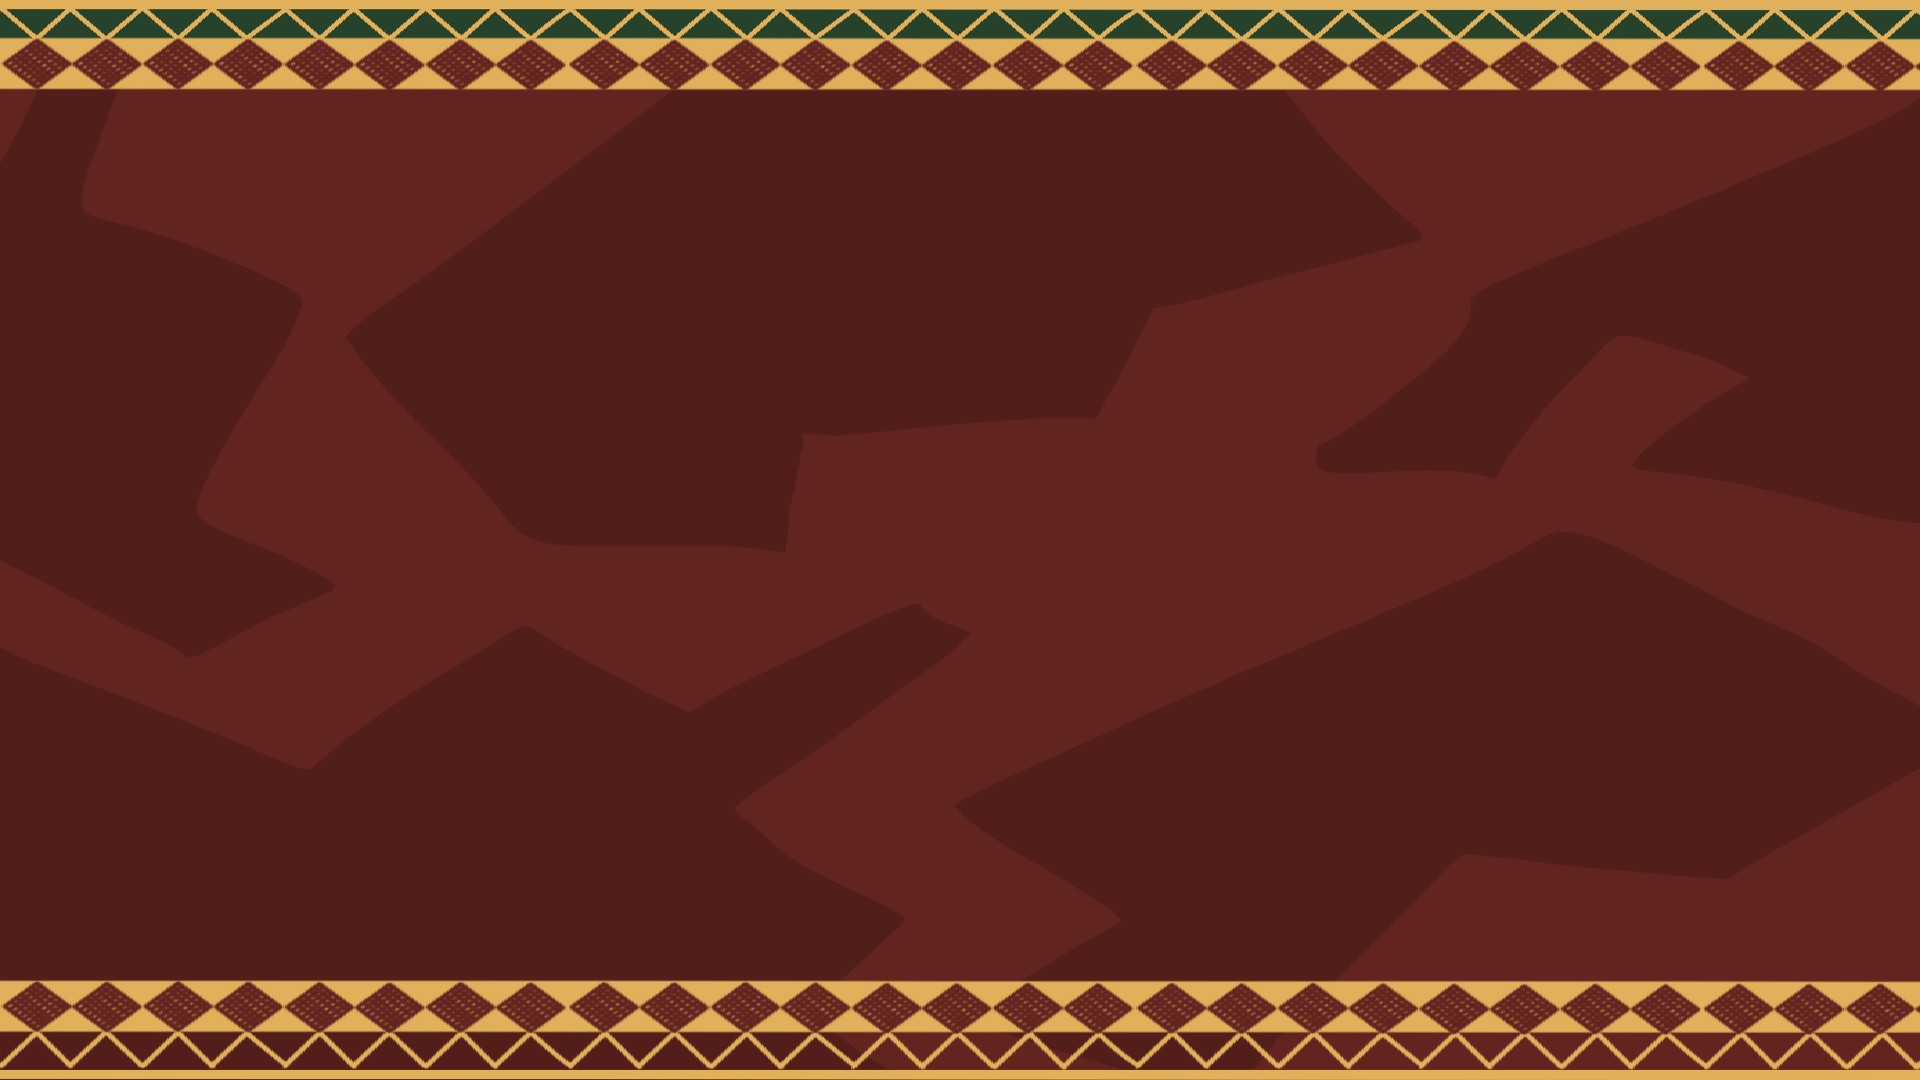
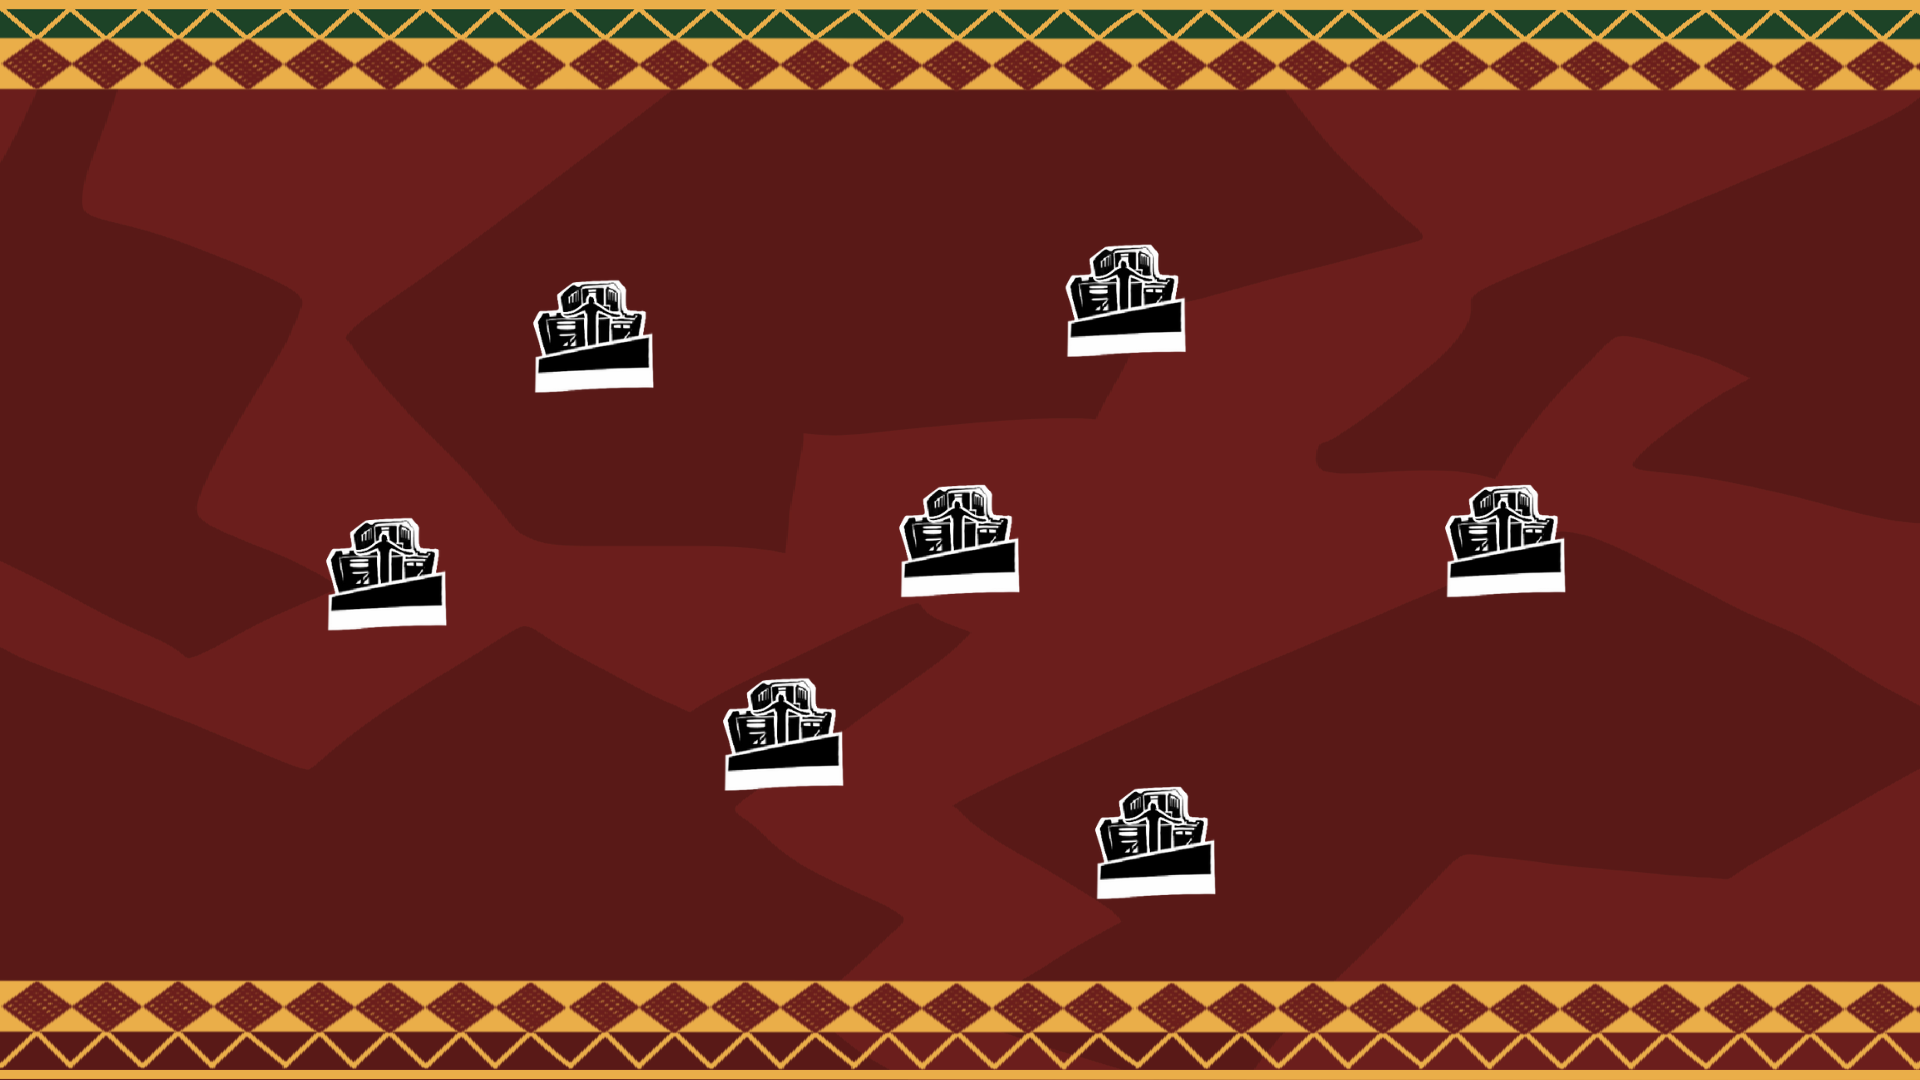
Added menu opening on button input
Added menu opening on button input, made it disable mouse dragging if it is over the menu, fixed layering issues with the menu. Added a simple transition for the opening of the menu, and added fonts to be used for the UI.

diff --git a/RoamMateGUI/pannableWidget.cpp b/RoamMateGUI/pannableWidget.cpp
@@ -4,24 +4,31 @@
 #include <QScreen>
 #include <QGuiApplication>
 #include <QDebug>
-#include <QMessageBox>
+#include <QPainterPath>
+#include <QPropertyAnimation>
 
 PannableWidget::PannableWidget(const QString &imagePath, QWidget *parent)
-    : QWidget(parent), background(imagePath) {
+    : QWidget(parent), background(imagePath), showMenu(false), m_menuOpacity(0.0) {
     QScreen *screen = QGuiApplication::primaryScreen();
     QRect screenGeometry = screen->geometry();
-    offset = QPoint((screenGeometry.width() / 4) * -1, (screenGeometry.height() / 4) * -1);
+    offset = QPoint(((background.width() - screenGeometry.width()) / 2) * -1, (screenGeometry.height() / 4) * -1);
     setMinimumSize(background.size());
     setAttribute(Qt::WA_TranslucentBackground); // Make widget background transparent
 
     // Add multiple buttons
-    addButton(":res/assets/UpIcon.PNG", QPoint(960, 540));
-    addButton(":res/assets/UpIcon.PNG", QPoint(582, 421));
-    addButton(":res/assets/UpIcon.PNG", QPoint(439, 659));
-    addButton(":res/assets/UpIcon.PNG", QPoint(1442, 521));
-    addButton(":res/assets/UpIcon.PNG", QPoint(723, 782));
-    addButton(":res/assets/UpIcon.PNG", QPoint(1174, 721));
-    addButton(":res/assets/UpIcon.PNG", QPoint(1332, 321));
+    addButton(":res/assets/UpIcon.PNG", QPoint(893, 473));
+    addButton(":res/assets/UpIcon.PNG", QPoint(527, 269));
+    addButton(":res/assets/UpIcon.PNG", QPoint(320, 507));
+    addButton(":res/assets/UpIcon.PNG", QPoint(1442, 474));
+    addButton(":res/assets/UpIcon.PNG", QPoint(717, 667));
+    addButton(":res/assets/UpIcon.PNG", QPoint(1089, 776));
+    addButton(":res/assets/UpIcon.PNG", QPoint(1060, 233));
+
+    // Initialize the animation
+    animation = new QPropertyAnimation(this, "menuOpacity");
+    animation->setDuration(500); // Duration in milliseconds
+    animation->setStartValue(0.0);
+    animation->setEndValue(1.0);
 }
 
 void PannableWidget::addButton(const QString &iconPath, const QPoint &position) {
@@ -39,6 +46,12 @@ void PannableWidget::addButton(const QString &iconPath, const QPoint &position) 
     buttons.append(buttonInfo);
 }
 
+void PannableWidget::setButtonsVisible(bool visible) {
+    for (const ButtonInfo &buttonInfo : buttons) {
+        buttonInfo.button->setVisible(visible);
+    }
+}
+
 void PannableWidget::paintEvent(QPaintEvent *event) {
     Q_UNUSED(event); // Suppress unused parameter warning
     QPainter painter(this);
@@ -51,35 +64,91 @@ void PannableWidget::paintEvent(QPaintEvent *event) {
     for (const ButtonInfo &buttonInfo : buttons) {
         buttonInfo.button->move(offset + buttonInfo.position);
     }
+
+    // Draw the new menu if the flag is set
+    if (showMenu) {
+        painter.setOpacity(m_menuOpacity);
+        drawMenu(painter); // Example usage with position (50, 50) and red color
+    }
 }
 
 void PannableWidget::mousePressEvent(QMouseEvent *event) {
     if (event->button() == Qt::LeftButton) {
-        lastMousePos = event->pos();
+        if (!showMenu || !menuRect.contains(event->pos())) {
+            lastMousePos = event->pos();
+        }
     }
 }
 
 void PannableWidget::mouseMoveEvent(QMouseEvent *event) {
     if (event->buttons() & Qt::LeftButton) {
-        QPoint delta = event->pos() - lastMousePos;
-        QPoint newOffset = offset + delta;
+        if (!showMenu || !menuRect.contains(event->pos())) {
+            QPoint delta = event->pos() - lastMousePos;
+            QPoint newOffset = offset + delta;
 
-        // Constrain newOffset within the valid range
-        QScreen *screen = QGuiApplication::primaryScreen();
-        QRect screenGeometry = screen->geometry();
-        int maxX = std::min(0, screenGeometry.width() - background.width());
-        int maxY = std::min(0, screenGeometry.height() - background.height());
+            // Constrain newOffset within the valid range
+            QScreen *screen = QGuiApplication::primaryScreen();
+            QRect screenGeometry = screen->geometry();
+            int maxX = std::min(0, screenGeometry.width() - background.width());
+            int maxY = std::min(0, screenGeometry.height() - background.height());
 
-        newOffset.setX(std::min(0, std::max(maxX, newOffset.x())));
-        newOffset.setY(std::min(0, std::max(maxY, newOffset.y())));
+            newOffset.setX(std::min(0, std::max(maxX, newOffset.x())));
+            newOffset.setY(std::min(0, std::max(maxY, newOffset.y())));
 
-        offset = newOffset;
-        lastMousePos = event->pos();
-        update();
+            offset = newOffset;
+            lastMousePos = event->pos();
+            update();
+        }
     }
 }
 
 void PannableWidget::onButtonClicked() {
     qDebug() << "Button clicked!";
-    QMessageBox::information(this, "Button Clicked", "I have been clicked!");
+    showMenu = !showMenu;
+    setButtonsVisible(!showMenu); // Hide buttons when showing the menu
+    if (showMenu) {
+        animation->setDirection(QPropertyAnimation::Forward);
+    } else {
+        animation->setDirection(QPropertyAnimation::Backward);
+    }
+    animation->start();
+    update(); // Trigger a repaint to show the new menu
+}
+
+void PannableWidget::drawMenu(QPainter &painter) {
+    QScreen *screen = QGuiApplication::primaryScreen();
+    QRect screenGeometry = screen->geometry();
+    menuRect = QRect(screenGeometry.width() - 505, 0, screenGeometry.width() / 2.25, screenGeometry.height() * 1.2); // Example menu dimensions
+
+    // Rotate the painter -15 degrees around the center of the menu rectangle
+    painter.save();
+    QPoint center = menuRect.center();
+    painter.translate(center);
+    painter.rotate(-15);
+    painter.translate(-center);
+
+    // Draw the menu with a border
+    QPainterPath path;
+    path.addRect(menuRect);
+
+    QPen pen(Qt::white, 5); // Adjust the border color and width here
+    painter.setPen(pen);
+    painter.setBrush(QBrush(Qt::black));
+    painter.drawPath(path);
+
+    // Draw the text
+    painter.setFont(QFont("Persona 5 Menu Font Prototype", 64));
+    painter.setPen(Qt::white);
+    painter.drawText(menuRect.adjusted(20,20,0,0), "FOOD");
+
+    painter.restore();
+}
+
+qreal PannableWidget::menuOpacity() const {
+    return m_menuOpacity;
+}
+
+void PannableWidget::setMenuOpacity(qreal opacity) {
+    m_menuOpacity = opacity;
+    update(); // Trigger a repaint to apply the new opacity
 }

diff --git a/RoamMateGUI/pannableWidget.h b/RoamMateGUI/pannableWidget.h
@@ -2,12 +2,16 @@
 #define PANNABLEWIDGET_H
 
 #include <QWidget>
-#include <QPushButton>
 #include <QPixmap>
+#include <QPushButton>
 #include <QVector>
+#include <QPoint>
+#include <QColor>
+#include <QPropertyAnimation>
 
 class PannableWidget : public QWidget {
     Q_OBJECT
+    Q_PROPERTY(qreal menuOpacity READ menuOpacity WRITE setMenuOpacity)
 
 public:
     explicit PannableWidget(const QString &imagePath, QWidget *parent = nullptr);
@@ -21,17 +25,27 @@ private slots:
     void onButtonClicked();
 
 private:
+    struct ButtonInfo {
+        QPushButton *button;
+        QPoint position;
+    };
+
+    void addButton(const QString &iconPath, const QPoint &position);
+    void setButtonsVisible(bool visible);
+    void drawMenu(QPainter &painter);
+    qreal menuOpacity() const;
+    void setMenuOpacity(qreal opacity);
+
     QPixmap background;
     QPoint offset;
     QPoint lastMousePos;
-
-    struct ButtonInfo {
-        QPushButton *button;
-        QPoint position; // Position of the button relative to the background
-    };
-
-    QVector<ButtonInfo> buttons; // List of buttons and their positions
-    void addButton(const QString &iconPath, const QPoint &position);
+    bool showMenu;
+    QRect menuRect;
+    QVector<ButtonInfo> buttons;
+    QPropertyAnimation *animation;
+    qreal m_menuOpacity;
 };
 
 #endif // PANNABLEWIDGET_H
+
+
